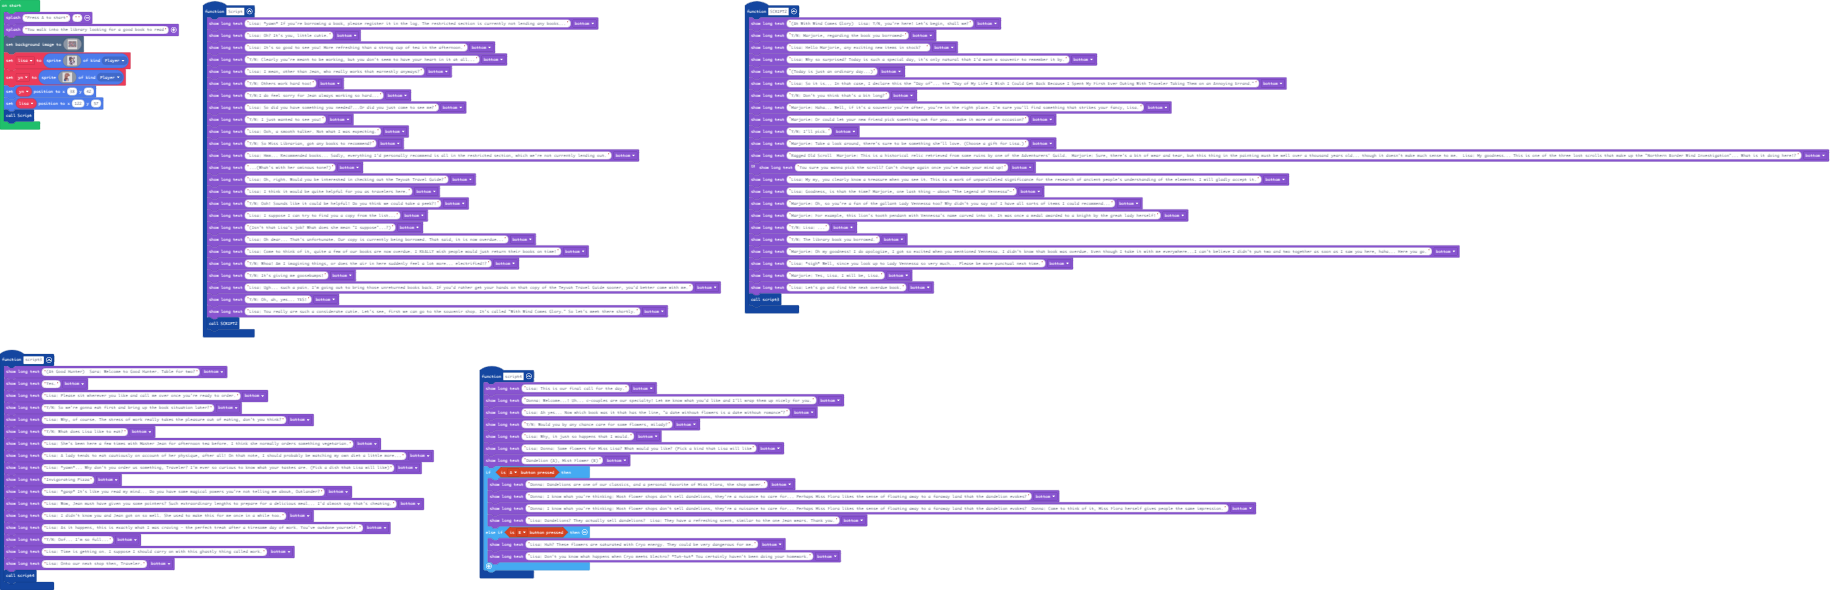
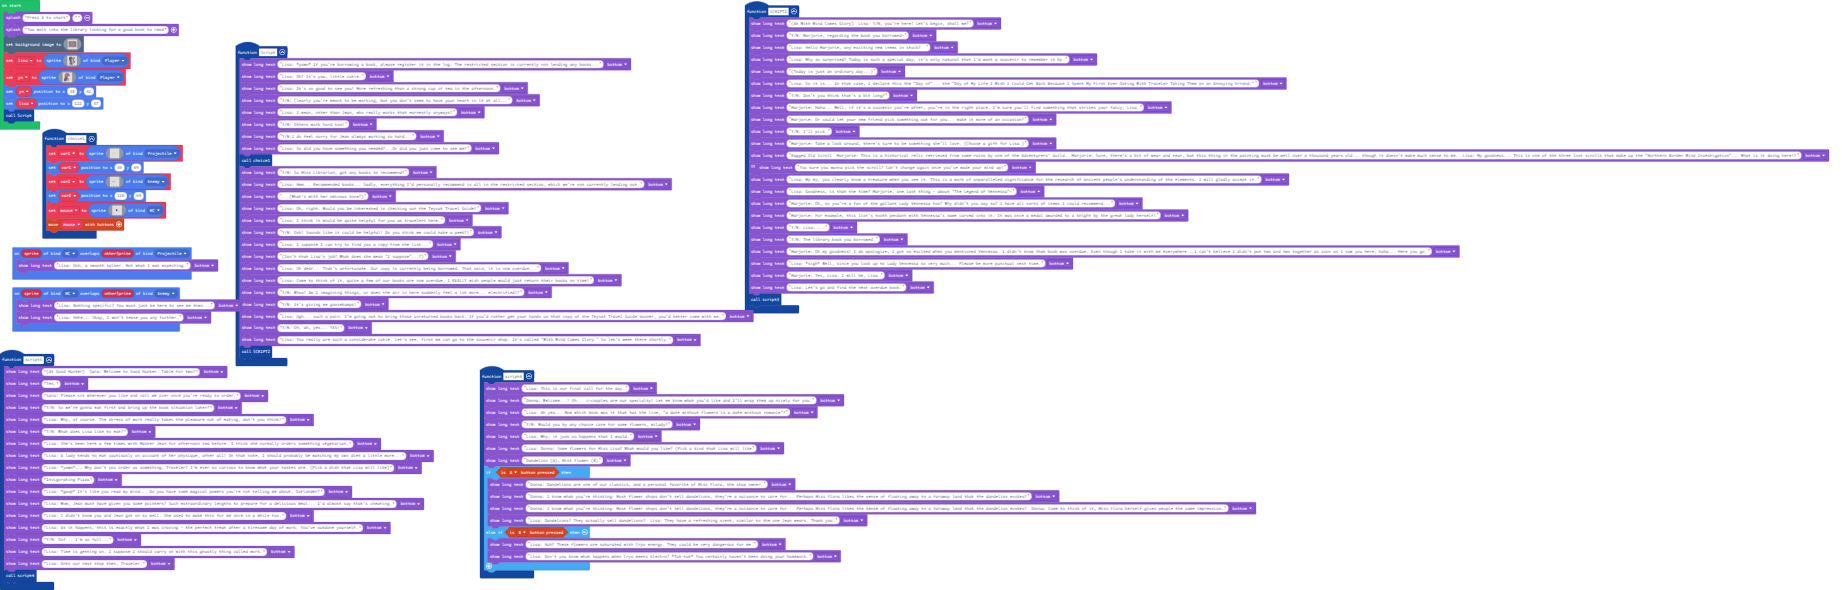
Update pxt.json, main.blocks, main.ts

Changed region(s): [[0.0, 0.0, 0.4332, 0.6407]]

diff --git a/main.ts b/main.ts
@@ -1,3 +1,6 @@
+namespace SpriteKind {
+    export const MC = SpriteKind.create()
+}
 function Script () {
     game.showLongText("Lisa: *yawn* If you're borrowing a book, please register it in the log. The restricted section is currently not lending any books...", DialogLayout.Bottom)
     game.showLongText("Lisa: Oh? It's you, little cutie.", DialogLayout.Bottom)
@@ -7,8 +10,7 @@ function Script () {
     game.showLongText("Y/N: Others work hard too!", DialogLayout.Bottom)
     game.showLongText("Y/N:I do feel sorry for Jean always working so hard...", DialogLayout.Bottom)
     game.showLongText("Lisa: So did you have something you needed?...Or did you just come to see me?", DialogLayout.Bottom)
-    game.showLongText("Y/N: I just wanted to see you!", DialogLayout.Bottom)
-    game.showLongText("Lisa: Ooh, a smooth talker. Not what I was expecting.", DialogLayout.Bottom)
+    choice1()
     game.showLongText("Y/N: So Miss Librarian, got any books to recommend?", DialogLayout.Bottom)
     game.showLongText("Lisa: Hmm... Recommended books... Sadly, everything I'd personally recommend is all in the restricted section, which we're not currently lending out.", DialogLayout.Bottom)
     game.showLongText("...(What's with her ominous tone?)", DialogLayout.Bottom)
@@ -26,6 +28,101 @@ function Script () {
     game.showLongText("Lisa: You really are such a considerate cutie. Let's see, first we can go to the souvenir shop. It's called \"With Wind Comes Glory.\" So let's meet there shortly.", DialogLayout.Bottom)
     SCRIPT2()
 }
+function choice1 () {
+    var1 = sprites.create(img`
+        ................................................................................
+        ................................................................................
+        ................................................................................
+        ................................................................................
+        ................................................................................
+        ............111111111111111111111111111111111111111111111.......................
+        ............111111111111111111111111111111111111111111111.......................
+        ............1ffffff111fff1fff1fff11f111f1fff1f11f1f1f1111.......................
+        ............11f1f1f111f111f111f1111f111f1f1f1f11f1f1f1111.......................
+        ............11f1f1f111fff1ff11ff1111fff11f1f1f11f1f1f1111.......................
+        ............11f1f1f11111f1f111f111111f111f1f1f11f1f1f1111.......................
+        ............11f1fff111fff1fff1fff1111f111fff11ff111111111.......................
+        ............11111111111111111111111111111111111111f1f1111.......................
+        ............111111111111111111111111111111111111111111111.......................
+        ................................................................................
+        ................................................................................
+        ................................................................................
+        ................................................................................
+        ................................................................................
+        ................................................................................
+        `, SpriteKind.Projectile)
+    var1.setPosition(36, 69)
+    var2 = sprites.create(img`
+        ................................................................................
+        ................................................................................
+        ................................................................................
+        ................................................................................
+        ................................................................................
+        ...........111111111111111111111111111111111111111111...........................
+        ...........111111111111111111111111111111111111111111...........................
+        ...........11f11f1fff111ffff1fff1fff1fff1fff1f11f1111...........................
+        ...........11ff1f1f1f111f11f1f111f1f1f111f1f1ff1f1111...........................
+        ...........11f1ff1f1f111ffff1ff11fff1fff1f1f1f1ff1111...........................
+        ...........11f11f1f1f111ff111f111f1f111f1f1f1f11f1111...........................
+        ...........11f11f1fff111f1ff1fff1f1f1fff1fff1f11f1f11...........................
+        ...........111111111111111111111111111111111111111111...........................
+        ...........111111111111111111111111111111111111111111...........................
+        ................................................................................
+        ................................................................................
+        ................................................................................
+        ................................................................................
+        ................................................................................
+        ................................................................................
+        `, SpriteKind.Enemy)
+    var2.setPosition(126, 69)
+    mouse = sprites.create(img`
+        ........................................
+        ........................................
+        ........................................
+        ........................................
+        ........................................
+        ........................................
+        ........................................
+        ........................................
+        ........................................
+        ........................................
+        ........................................
+        ........................................
+        ........................................
+        ........................................
+        ........................................
+        ..............fff.......................
+        ..............fffff.....................
+        ..............fffffff...................
+        ...............fffffff..................
+        ...............fffffff..................
+        ................fffff...................
+        ................fffff...................
+        .................ff..f..................
+        ......................f.................
+        .......................f................
+        ........................................
+        ........................................
+        ........................................
+        ........................................
+        ........................................
+        ........................................
+        ........................................
+        ........................................
+        ........................................
+        ........................................
+        ........................................
+        ........................................
+        ........................................
+        ........................................
+        ........................................
+        `, SpriteKind.MC)
+    controller.moveSprite(mouse)
+}
+sprites.onOverlap(SpriteKind.MC, SpriteKind.Enemy, function (sprite, otherSprite) {
+    game.showLongText("Lisa: Nothing specific? You must just be here to see me then...", DialogLayout.Bottom)
+    game.showLongText("Lisa: Hehe... Okay, I won't tease you any further.", DialogLayout.Bottom)
+})
 function SCRIPT2 () {
     game.showLongText("(At With Wind Comes Glory)  Lisa: Y/N, you're here! Let's begin, shall we?", DialogLayout.Bottom)
     game.showLongText("Y/N: Marjorie, regarding the book you borrowed–", DialogLayout.Bottom)
@@ -56,7 +153,7 @@ function SCRIPT2 () {
 function script3 () {
     game.showLongText("(At Good Hunter)  Sara: Welcome to Good Hunter. Table for two?", DialogLayout.Bottom)
     game.showLongText("Yes.", DialogLayout.Bottom)
-    game.showLongText("Lisa: Please sit wherever you like and call me over once you're ready to order.", DialogLayout.Bottom)
+    game.showLongText("Sara: Please sit wherever you like and call me over once you're ready to order.", DialogLayout.Bottom)
     game.showLongText("Y/N: So we're gonna eat first and bring up the book situation later?", DialogLayout.Bottom)
     game.showLongText("Lisa: Why, of course. The stress of work really takes the pleasure out of eating, don't you think?", DialogLayout.Bottom)
     game.showLongText("Y/N: What does Lisa like to eat?", DialogLayout.Bottom)
@@ -91,6 +188,12 @@ function script4 () {
         game.showLongText("Lisa: Don't you know what happens when Cryo meets Electro? *Tut-tut* You certainly haven't been doing your homework.", DialogLayout.Bottom)
     }
 }
+sprites.onOverlap(SpriteKind.MC, SpriteKind.Projectile, function (sprite, otherSprite) {
+    game.showLongText("Lisa: Ooh, a smooth talker. Not what I was expecting.", DialogLayout.Bottom)
+})
+let mouse: Sprite = null
+let var2: Sprite = null
+let var1: Sprite = null
 game.splash("Press A to start", "")
 game.splash("You walk into the library looking for a good book to read")
 scene.setBackgroundImage(img`
